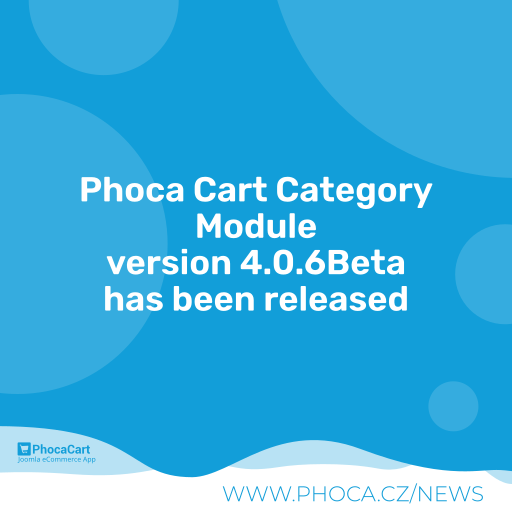
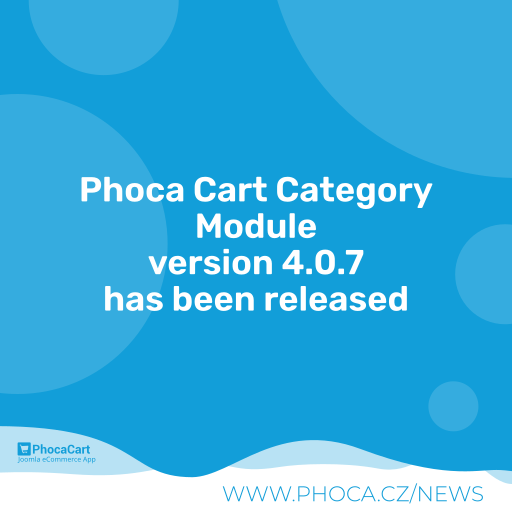
4.0.7

Changed region(s): [[0.1875, 0.4688, 0.8125, 0.5625]]

diff --git a/mod_phocacart_category.php b/mod_phocacart_category.php
@@ -29,7 +29,7 @@ $wa  = $app->getDocument()->getWebAssetManager();
 
 $p['category_ordering']		= $params->get( 'category_ordering', 1 );
 $p['simple_layout']			= $params->get( 'simple_layout', 0 );
-$moduleclass_sfx 			= htmlspecialchars($params->get('moduleclass_sfx'), ENT_COMPAT, 'UTF-8');
+$moduleclass_sfx 			= htmlspecialchars($params->get('moduleclass_sfx', ''), ENT_COMPAT, 'UTF-8');
 
 $media = PhocacartRenderMedia::getInstance('main');
 $media->loadBase();

diff --git a/README.MD b/README.MD
@@ -60,7 +60,7 @@ Phoca Cart Category Module - a Joomla! CMS module which displays tree of Phoca C
 
 ## Version (Joomla! 4.x)
 
-4.0.6Beta
+4.0.7
 
 
 
